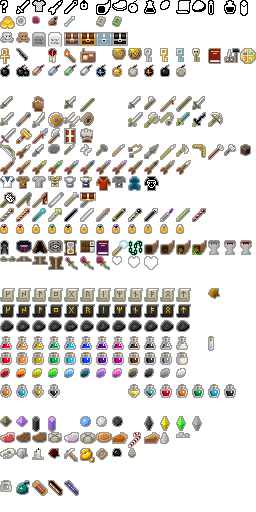
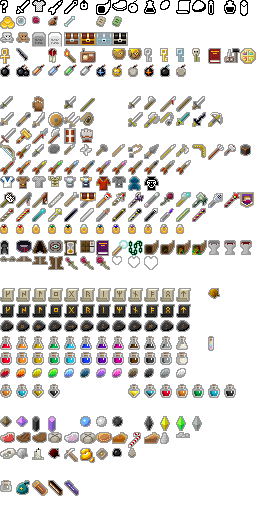
All sprites for staffs. Fixed chance of miscast for too heavy staffs.

Changed region(s): [[0.375, 0.375, 1.0, 0.4062]]

diff --git a/core/src/main/java/com/trashboxbobylev/summoningpixeldungeon/items/weapon/melee/staffs/Staff.java b/core/src/main/java/com/trashboxbobylev/summoningpixeldungeon/items/weapon/melee/staffs/Staff.java
@@ -368,7 +368,7 @@ public class Staff extends MeleeWeapon {
 
         //if anything is met, spawn minion
         //if hero do not have enough strength, summoning might fail
-        if (Random.Float() < 1/(float)(strength*2)) {
+        if (strength == 1 || Random.Float() < 1 / (float) (strength * 2)) {
             Minion minion = minionType.newInstance();
             GameScene.add(minion);
             ScrollOfTeleportation.appear(minion, spawnPoints.get(Random.index(spawnPoints)));
@@ -377,6 +377,7 @@ public class Staff extends MeleeWeapon {
             Statistics.summonedMinions++;
             Badges.validateConjurerUnlock();
             minion.strength = STRReq();
+            this.customizeMinion(minion);
 
             //if we have upgraded robe, increase hp
             float robeBonus = 1f;
@@ -388,6 +389,7 @@ public class Staff extends MeleeWeapon {
         wandUsed(false);
     }
 
+    public void customizeMinion(Minion minion){ }
 
     protected static CellSelector.Listener zapper = new  CellSelector.Listener() {
 
@@ -578,10 +580,12 @@ public class Staff extends MeleeWeapon {
 
         if (isIdentified()) {
             float robeBonus = 1f;
-            if (Dungeon.hero.belongings.armor instanceof ConjurerArmor && curUser.belongings.armor.level() > 0){
-                robeBonus = 1f + curUser.belongings.armor.level()*0.1f;
+            if (Dungeon.hero.belongings.armor instanceof ConjurerArmor) {
+                if (curUser.belongings.armor.level() > 0) {
+                    robeBonus = 1f + curUser.belongings.armor.level() * 0.1f;
+                }
             }
-            info += "\n\n" + Messages.get(Staff.class, "stats_known", tier, augment.damageFactor(min()), augment.damageFactor(max()), STRReq(), minionMin(level()), minionMax(level()), (int)(hp(level()) * robeBonus));
+            info += "\n\n" + Messages.get(Staff.class, "stats_known", tier, augment.damageFactor(min()), augment.damageFactor(max()), STRReq(), minionMin(level()), minionMax(level()), hp(level()) * robeBonus);
             if (STRReq() > Dungeon.hero.STR()) {
                 info += " " + Messages.get(MeleeWeapon.class, "too_heavy");
             } else if (Dungeon.hero.STR() > STRReq()){
